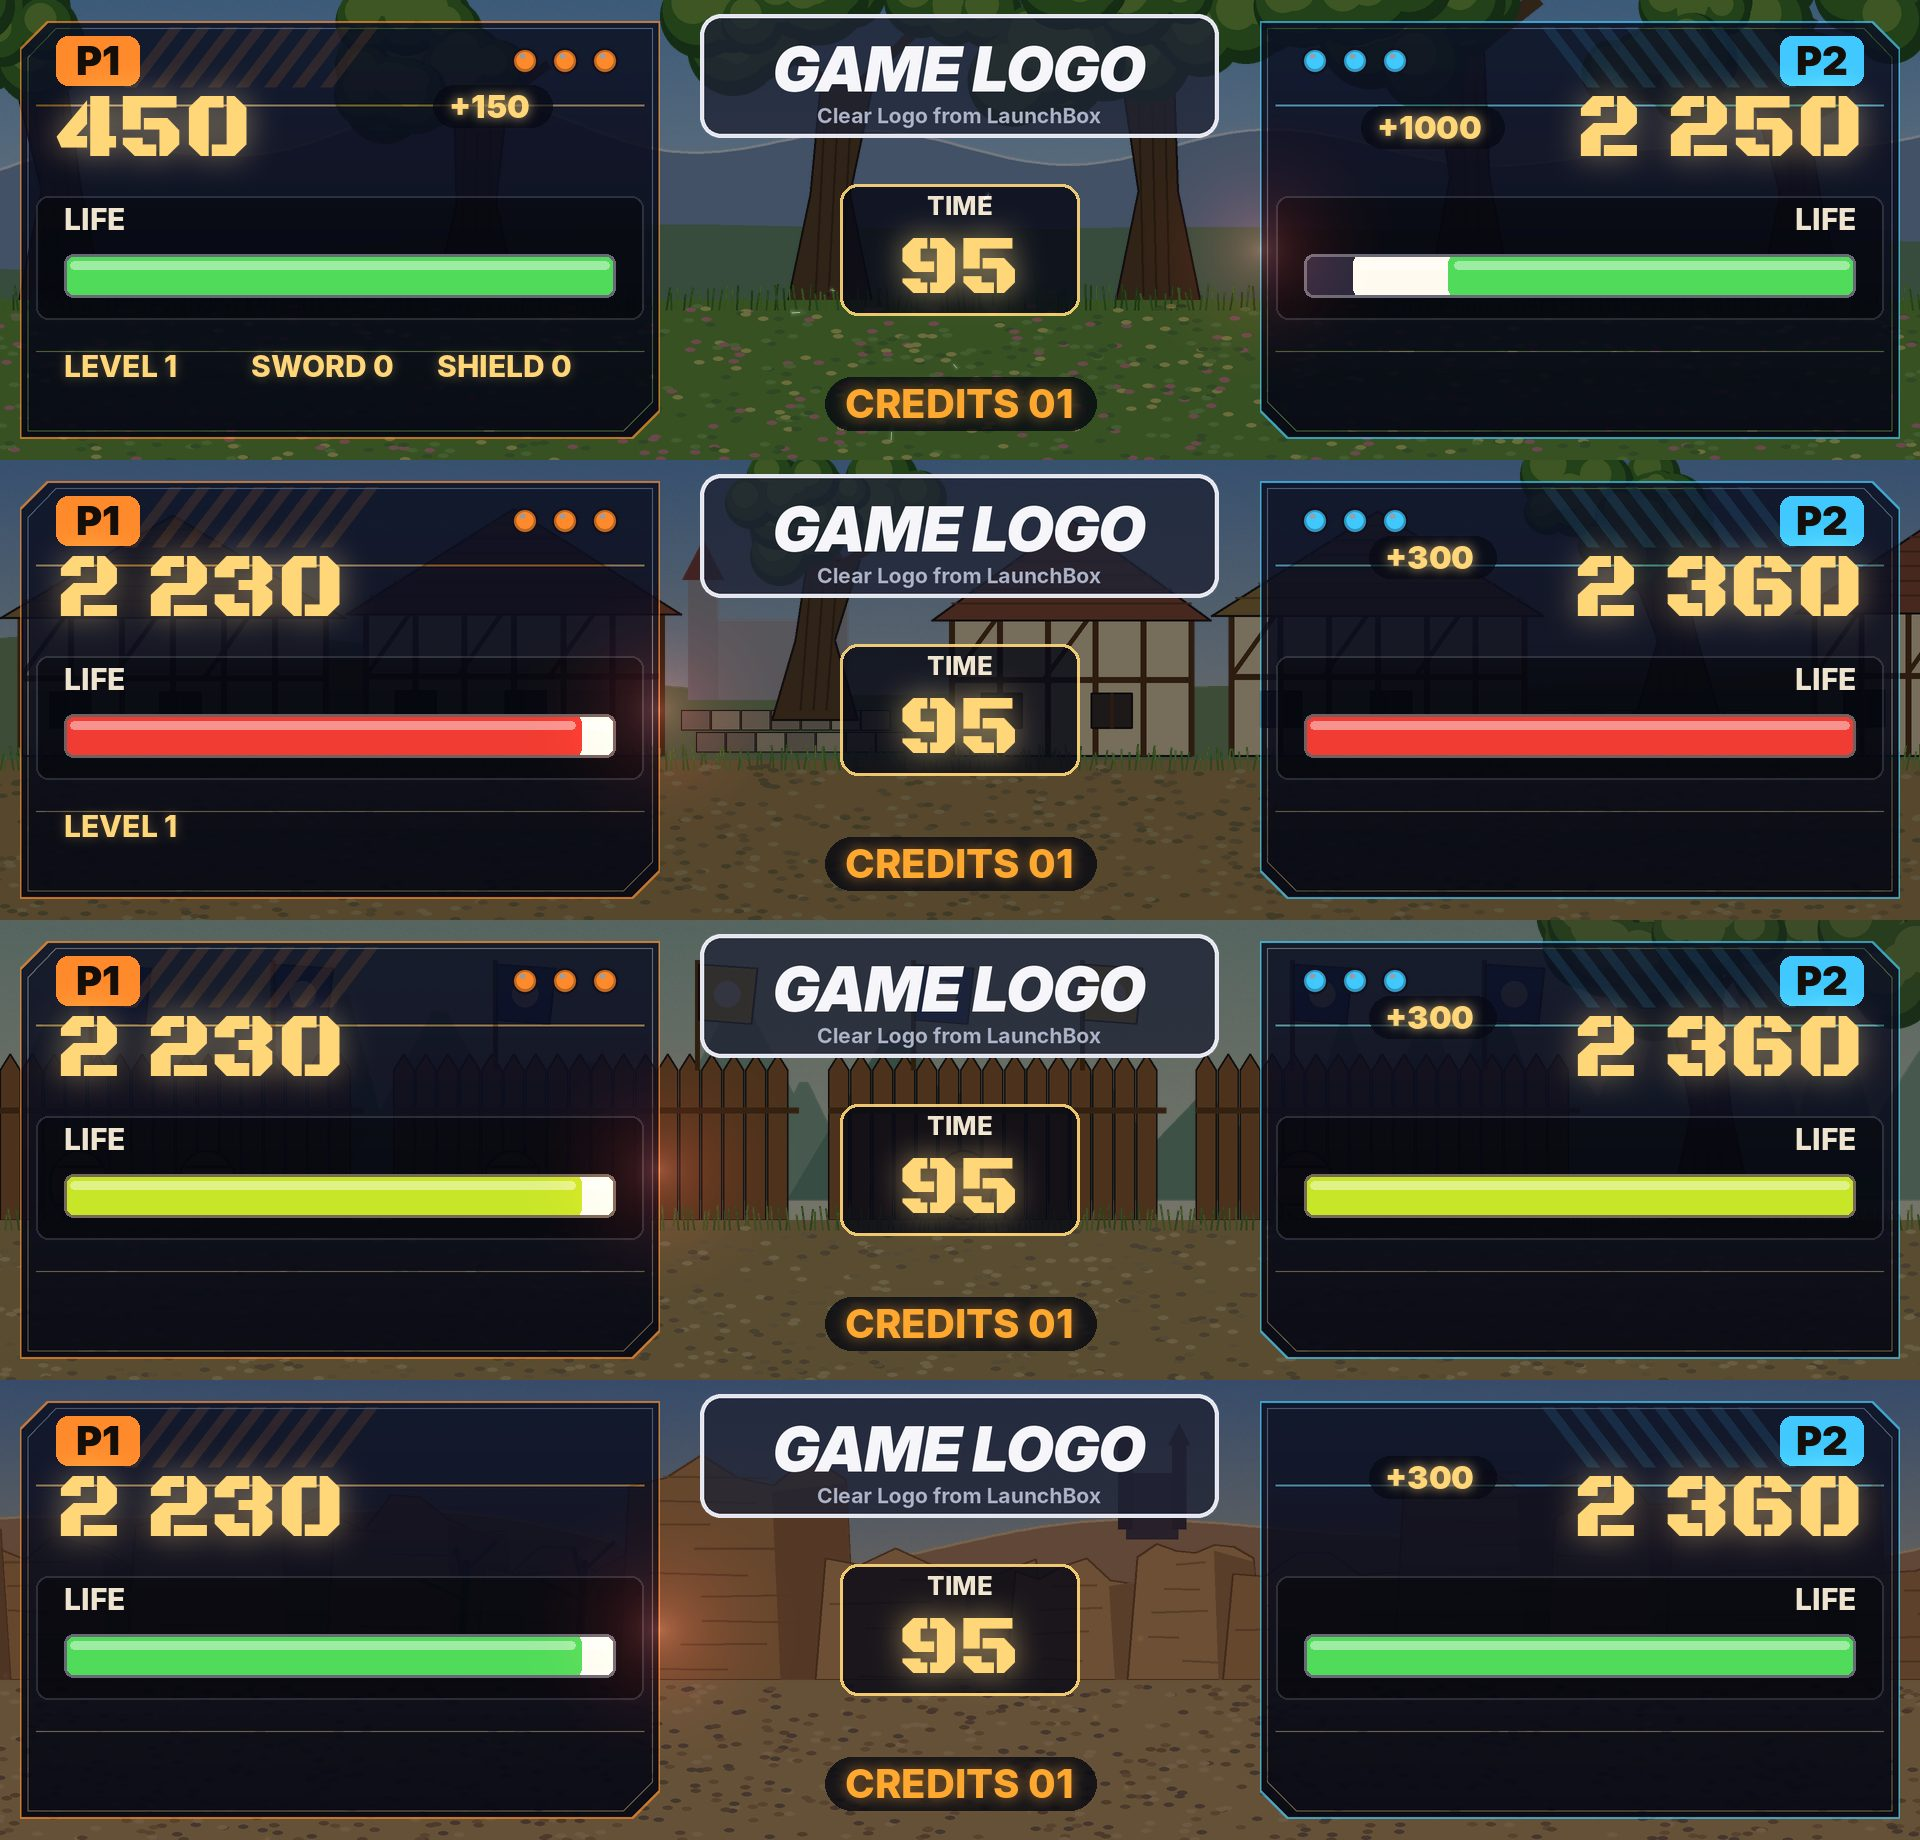
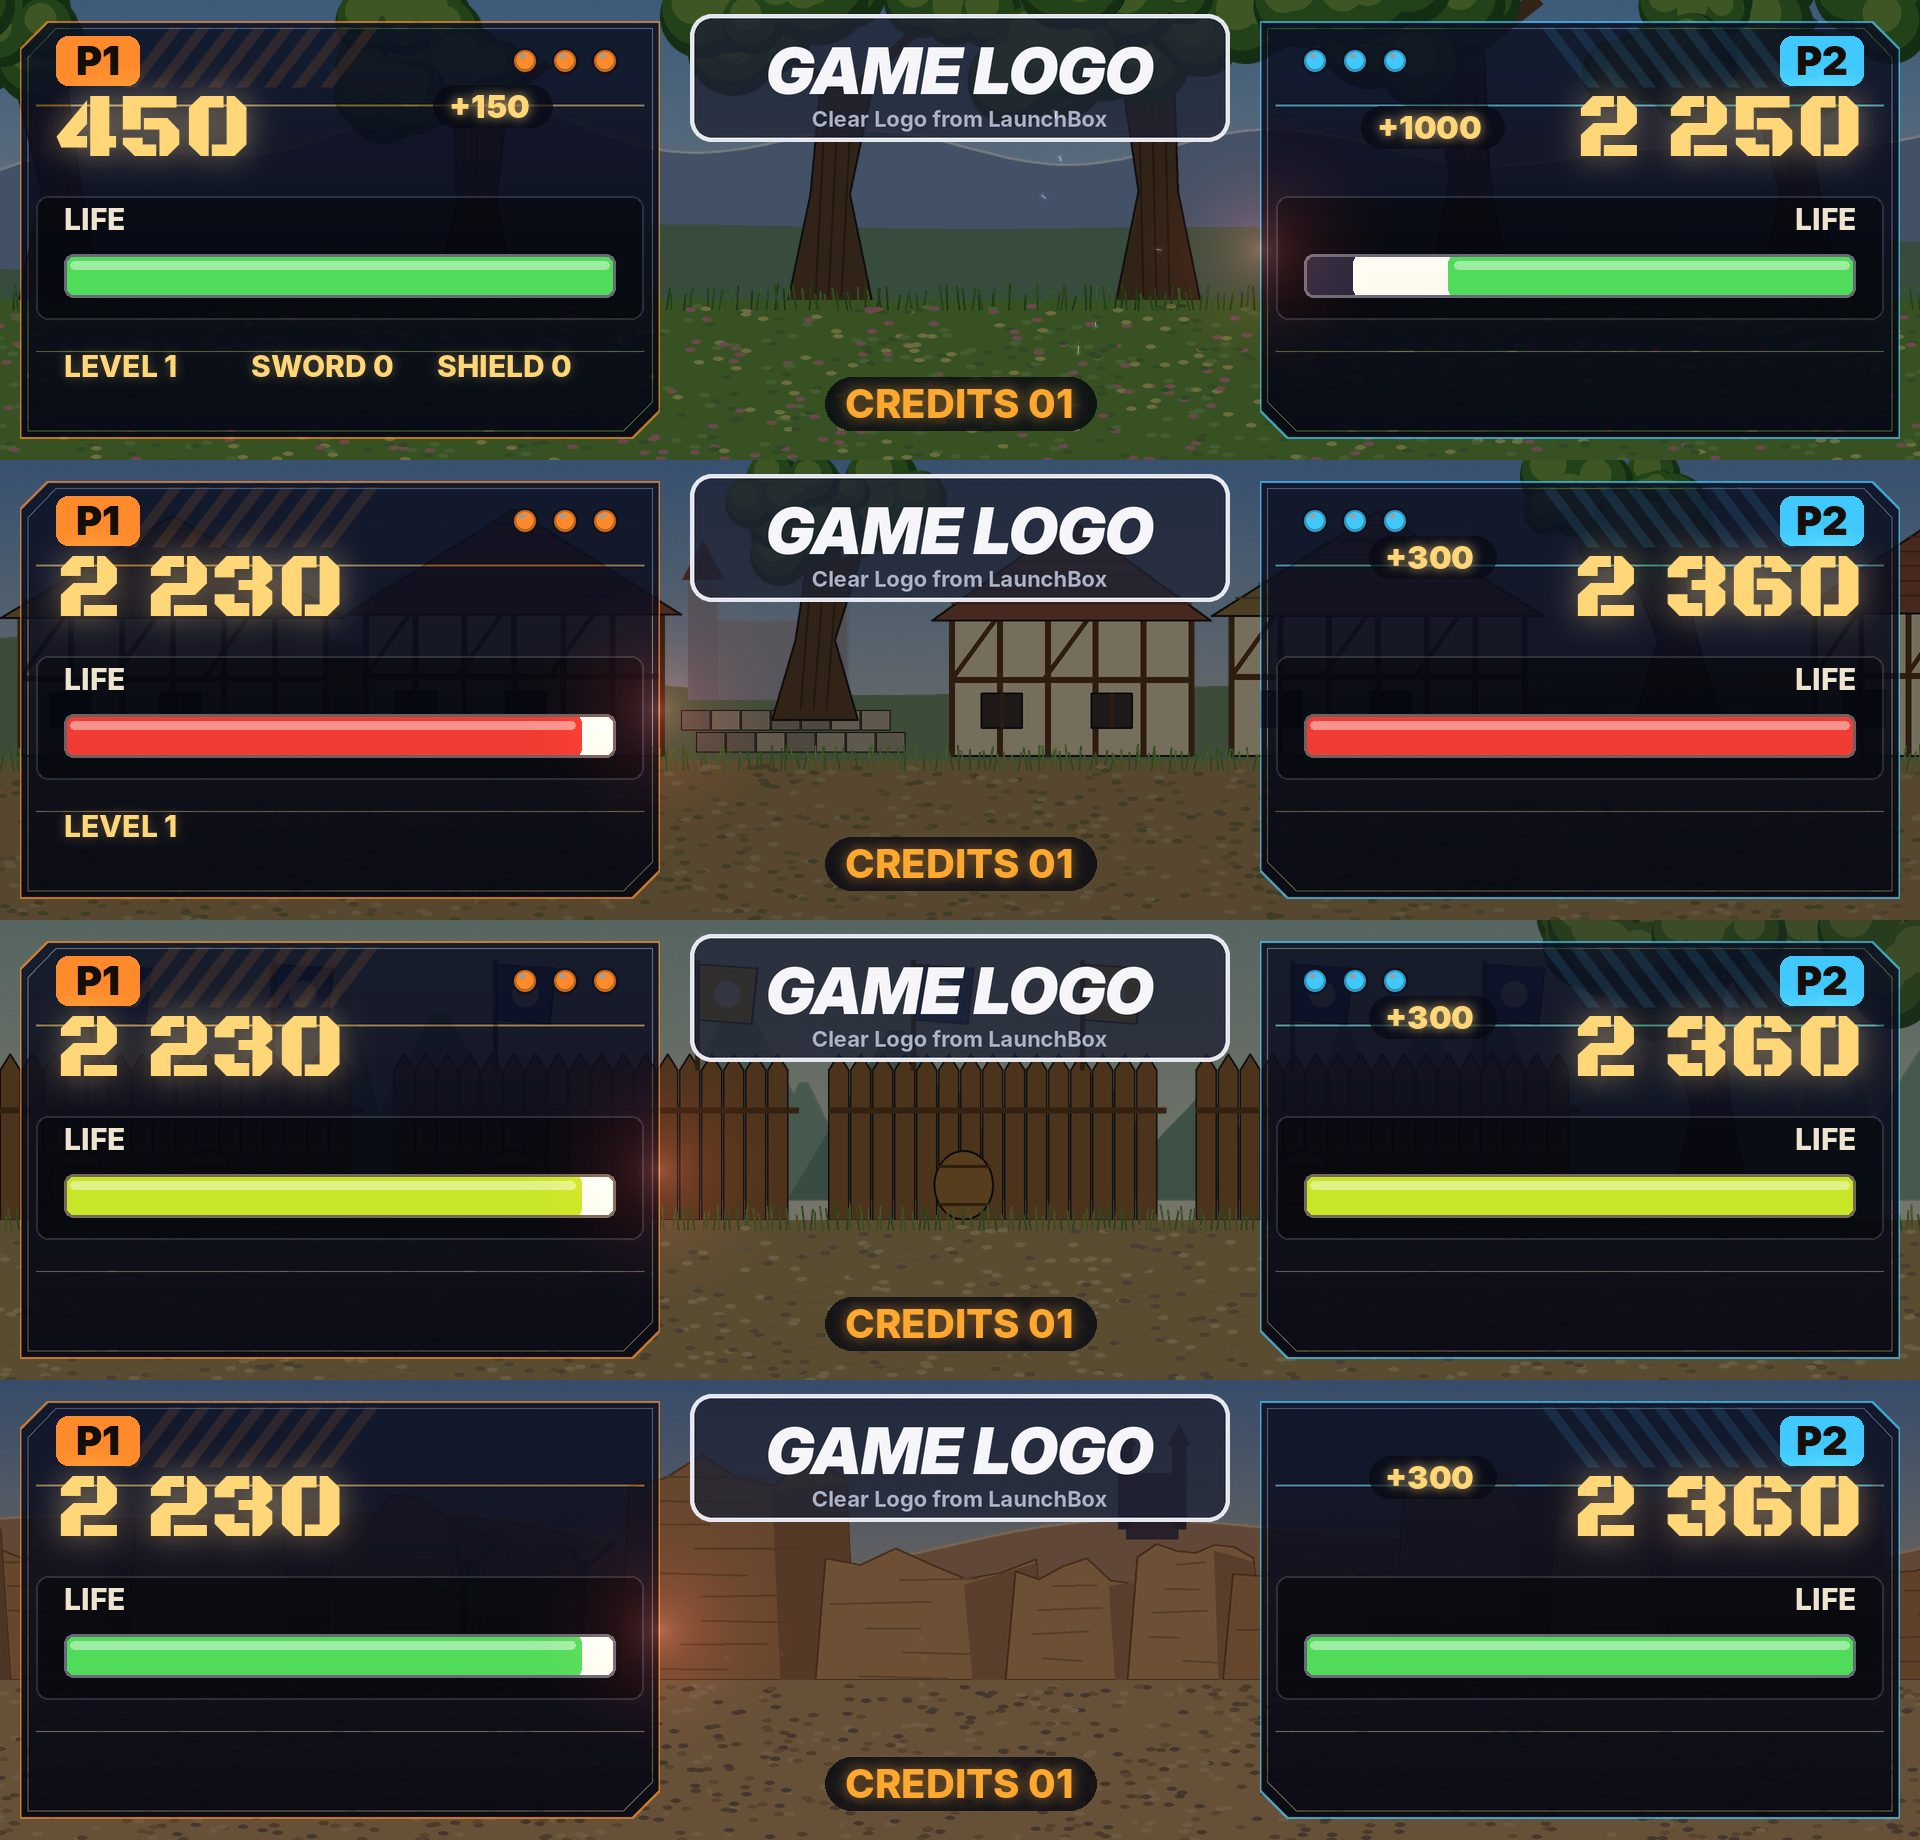
Docs pictures without the partial timers, Mercs' demo keeps its own timer
The demo set the timer back to 60 at each knock-out, also in a game that
counts its own time. Mercs, which has two energy bars, then showed a
two-digit timer. A game whose demo drives the timer keeps it now, the
fighting games still start each round at 60.

The pictures of the beat'em ups, the action games, the shoot'em ups and
the small games are made again, without the timers no longer shown, and
with Mercs' three-digit timer and the mega crashes of both players.

Claude-Session: https://claude.ai/code/session_01UHMmGB2iQAKSvNdTFigVJ4

diff --git a/dmd/app.py b/dmd/app.py
@@ -361,7 +361,7 @@ class Simulator:
                         self._set("backdrop", self.rng.choice([i for i in range(self.backdrops) if i != b] or [b]), t)
                 for n in self.fighters:
                     self._set(n, 100, t)
-                if "time" in self.values:
+                if "time" in self.values and "time" not in self.sim:   # a game that counts its own time (Mercs) keeps it
                     self._set("time", 60, t)
                 self.ko_until = None
             self.fight_next = t + 0.5
